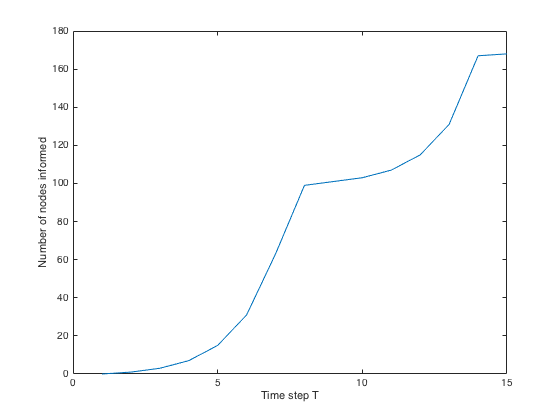
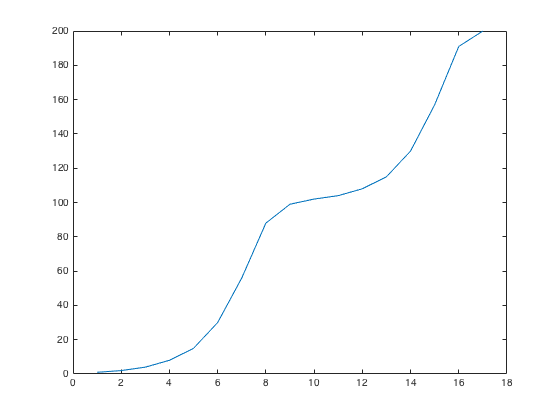
Change split graph and add table

diff --git a/report/report.tex b/report/report.tex
@@ -173,16 +173,16 @@ It is more interesting to study malformed graphs where some nodes are hard to re
 \end{subfigure}%
 \begin{subfigure}[b]{.5\linewidth}
 \includegraphics[width=1\linewidth]{figs/split-2}
-\caption{$T=7$}
+\caption{$T=9$}
 \end{subfigure}
 
 \begin{subfigure}[b]{.5\linewidth}
 \includegraphics[width=1\linewidth]{figs/split-3}
-\caption{$T=12$}
+\caption{$T=13$}
 \end{subfigure}%
 \begin{subfigure}[b]{.5\linewidth}
 \includegraphics[width=1\linewidth]{figs/split-4}
-\caption{$T=15$}
+\caption{$T=17$}
 \end{subfigure}
 
 \caption{Rumor spreading (blue nodes) in bottleneck model with $n=85$, $p = 0.1$ and $q = 0.0003$}
@@ -198,6 +198,28 @@ It is more interesting to study malformed graphs where some nodes are hard to re
 \end{figure}
 
 We can see in \cref{fig:split-chart} that the number of informed nodes palliates when the rumor has to cross the bottleneck. It is normal that the topology of a network affects the quality of the broadcast and bridging an information between two very well distinct populations is hard. The experimental value of $\lambda_2$ is $0.9936$ which gives a very small $\alpha$ and $1/\alpha = 156.3$ still we can see an exponential trend but the constant depending on $1/\alpha$ and will make the spread much slower.
+
+\begin{table}
+\centering
+\begin{tabular}{c|c|c||c|c|c}
+  $q (10^{-5})$ & \# crossing & $\alpha (10^{-4})$ & .5 & .9 & 1\\
+  \hline
+  1 & 8 & 1.5 & 13 & 21 & 22 \\
+1.3 & 15 & 2.9 & 13 & 20 & 21 \\
+1.7 & 28 & 5.5 & 13 & 19 & 20 \\
+2.2 & 18 & 3.5 & 13 & 20 & 21 \\
+2.8 & 33 & 6.4 & 13 & 19 & 20 \\
+3.6 & 43 & 8.4 & 13 & 18 & 20 \\
+4.6 & 51 & 10.0 & 13 & 18 & 20 \\
+6.0 & 57 & 11.2 & 13 & 18 & 19 \\
+7.7 & 73 & 14.2 & 13 & 18 & 19 \\
+10 & 129 & 25.2 & 13 & 17 & 18 \\
+\end{tabular}
+\caption{Quantiles of the proportion of informed node during rumor spreading protocol on a bottle neck graph with bridging probability $q$, $n = 2 \cdot 1000$ and $p = 0.1$}
+\label{tab:quantiles}
+\end{table}
+
+We then simulate a range of bottle neck graphs for different parameters $q$ which are summarized in \cref{tab:quantiles}. The number of crossing edges is the smallest cut of the graph and is linked to $\alpha$. The lower the number of crossing edge is, the harder it is to make the bridge between the two populations and then it is consistent that the protocol takes more iteration to inform all the nodes. Indeed $1/\alpha$ is higher when the bottle neck is tighter and the number of rounds should increase. 
 
 \section{Conclusion}
  We have studied and analyzed different rumor spreading algorithms that terminate in O(log n) rounds which can be useful for large infrastructure networks. Although those protocols are representative of real life broadcast in mobile networks (one node transmits information to one random adjacent node), we can find some weaknesses when it comes to represent social networks rumor spreading. There are two reasons for that, the first one is that in a social network like Facebook, an information can be (and most likely is) transmitted to many friends at once and not one per round. The second reason is that the node that receives the information can’t be chosen at random but in a very biased way where links have to be weighted (I share rumor with my closest friends ).However,those algorithms remain the easiest ones to compute.
